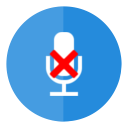
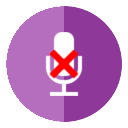
pw

diff --git a/Box/WebContent/css/PetLine.css b/Box/WebContent/css/PetLine.css
@@ -43,37 +43,6 @@ select {
   width: 175px;
 }
 
-/*
-* input[type="text"] {
-	width: 150px;
-	border-left-width: 1px;
-	border-right-width: 1px;
-	border-top-width: 1px;
-	border-bottom-width: 1px;
-	border-left-style: solid;
-	border-right-style: solid;
-	border-top-style: solid;
-	border-bottom-style: solid;
-	border-left-color: black;
-	border-right-color: grey;
-	border-top-color: black;
-	border-bottom-color: grey;
-}
-
-* input[type="password"] {
-	width: 150px;
-	background: #FFFFFF;
-	border-left-width: 1px;
-	border-right-width: 1px;
-	border-top-width: 1px;
-	border-bottom-width: 1px;
-	border-left-color: black;
-	border-right-color: grey;
-	border-top-color: black;
-	border-bottom-color: grey;
-}
-*/
-
 input[type="text"] {
 	width: 175px;
   -webkit-box-sizing: border-box;
@@ -107,7 +76,7 @@ input[type="password"] {
 .etiqueta {
 	height:25px;
 	width: 150px;
-	background-color: #006cff;
+	background-color: #8e3999;
 	font-family: Segoe UI, sans-serif;
 	text-align: left;
 	padding-left:5px;
@@ -151,7 +120,7 @@ input[type="password"] {
 }
 
 .header {
-	background-color: #006cff;
+	background-color: #8e3999;
 	font-family: Segoe UI, sans-serif;
 	text-align: center;
 	color: #FFFFFF;
@@ -160,7 +129,7 @@ input[type="password"] {
 }
 
 .title {
-	background-color: #555555;
+	background-color: #b56ebd;
 	font-family: Segoe UI, sans-serif;
 	text-align: left;
 	color: #FFFFFF;
@@ -173,7 +142,7 @@ input[type="password"] {
 .subtitle {
 	font-family: Segoe UI, sans-serif;
 	text-align: center;
-	color: #003366;
+	color: #870996;
 	font-size: 20px;
 	font-weight: bold;
 }
@@ -187,7 +156,7 @@ input[type="password"] {
 }
 
 .menufondo{
-	background-color: #006cff;
+	background-color: #8e3999;
 	background-position:left top;
 	background-repeat:repeat-y;
 	padding:0px;
@@ -203,11 +172,11 @@ input[type="password"] {
 	color: #FFFFFF;
 	font-size: 10px;
 	font-weight: bold;
-	background-color: #006cff;
+	background-color: #8e3999;
 }
 
 .tableTitle{
-	background-color: #006cff;
+	background-color: #8e3999;
 	font-family: Segoe UI, sans-serif;
 	text-align: center;
 	color: #FFFFFF;

diff --git a/PetLine/WebContent/css/PetLine.css b/PetLine/WebContent/css/PetLine.css
@@ -107,7 +107,7 @@ input[type="password"] {
 .etiqueta {
 	height:25px;
 	width: 150px;
-	background-color: #006cff;
+	background-color: #8e3999;
 	font-family: Segoe UI, sans-serif;
 	text-align: left;
 	padding-left:5px;
@@ -153,7 +153,7 @@ input[type="password"] {
 }
 
 .header {
-	background-color: #006cff;
+	background-color: #8e3999;
 	font-family: Segoe UI, sans-serif;
 	text-align: center;
 	color: #FFFFFF;
@@ -162,7 +162,7 @@ input[type="password"] {
 }
 
 .title {
-	background-color: #555555;
+	background-color: #b56ebd;
 	font-family: Segoe UI, sans-serif;
 	text-align: left;
 	color: #FFFFFF;
@@ -175,13 +175,13 @@ input[type="password"] {
 .subtitle {
 	font-family: Segoe UI, sans-serif;
 	text-align: center;
-	color: #003366;
+	color: #870996;
 	font-size: 20px;
 	font-weight: bold;
 }
 
 .subtitle2 {
-	background-color: #555555;
+	background-color: #b56ebd;
 	font-family: Segoe UI, sans-serif;
 	text-align: left;
 	color: #FFFFFF;
@@ -208,7 +208,7 @@ input[type="password"] {
 }
 
 .menufondo{
-	background-color: #006cff;
+	background-color: #8e3999;
 	background-position:left top;
 	background-repeat:repeat-y;
 	padding:0px;
@@ -224,11 +224,11 @@ input[type="password"] {
 	color: #FFFFFF;
 	font-size: 10px;
 	font-weight: bold;
-	background-color: #006cff;
+	background-color: #8e3999;
 }
 
 .tableTitle{
-	background-color: #006cff;
+	background-color: #8e3999;
 	font-family: Segoe UI, sans-serif;
 	text-align: center;
 	color: #FFFFFF;
